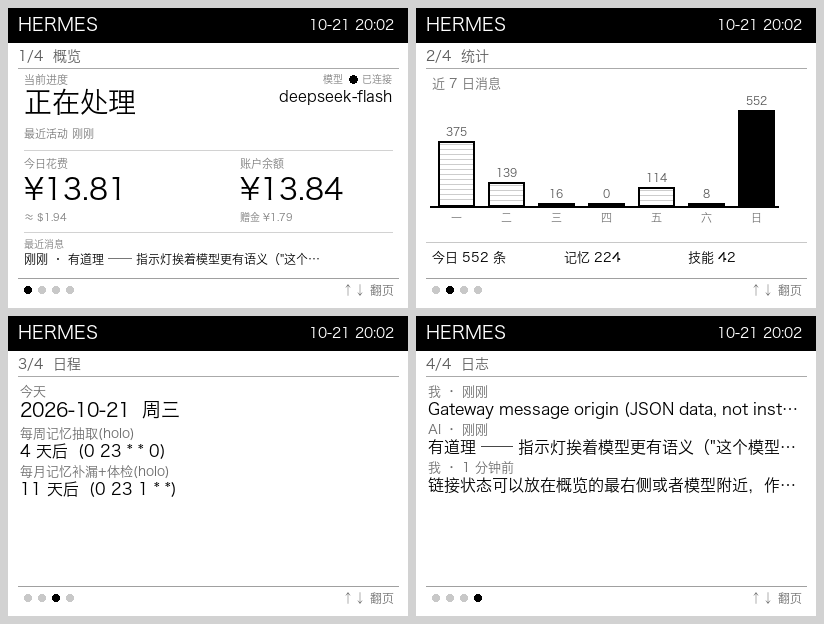
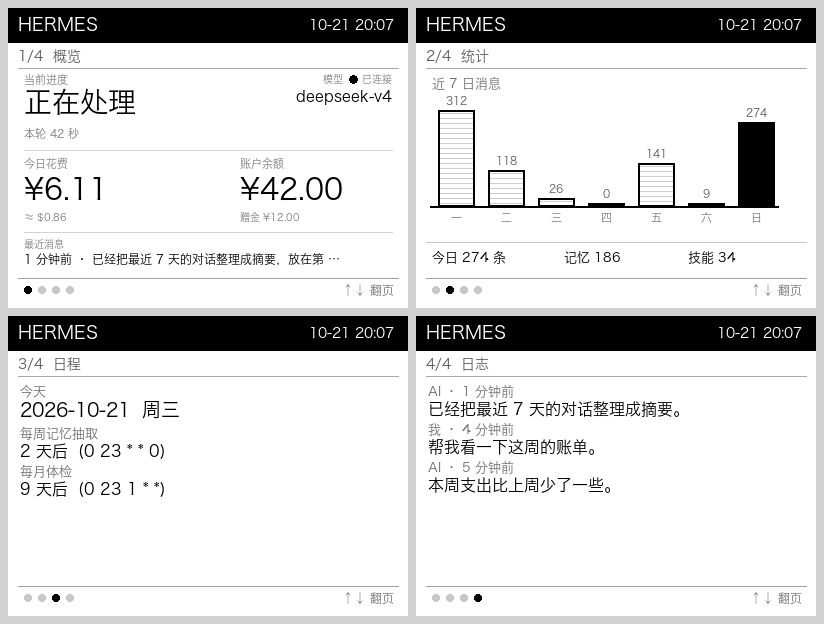
chore: 截图改用 --demo 示例数据；移除真实金额，确保公开无隐私

diff --git a/SUBMISSION.md b/SUBMISSION.md
@@ -29,7 +29,7 @@
 自动：pip 装 cmake → codeload 拉 SDK（绕过 github.com）→ 编译 → 两个 LaunchAgent 开机自启。
 
 ## 30 秒演示脚本
-1. 屏幕显示概览：运行中、deepseek-flash、今日 ¥13.4、余额 ¥14.46
+1. 屏幕显示概览：运行中、当前模型、今日花费、账户余额（截图用示例数据）
 2. 电脑上让助手干活 → 状态与"最近活动"变化（5 分钟内自动刷）
 3. 按 ↓ → 统计页（近 7 日柱状图）；再 ↓ → 日程；再 ↓ → 日志；再 ↓ 回概览
 4. 按确认键 → 立即重推当前页
